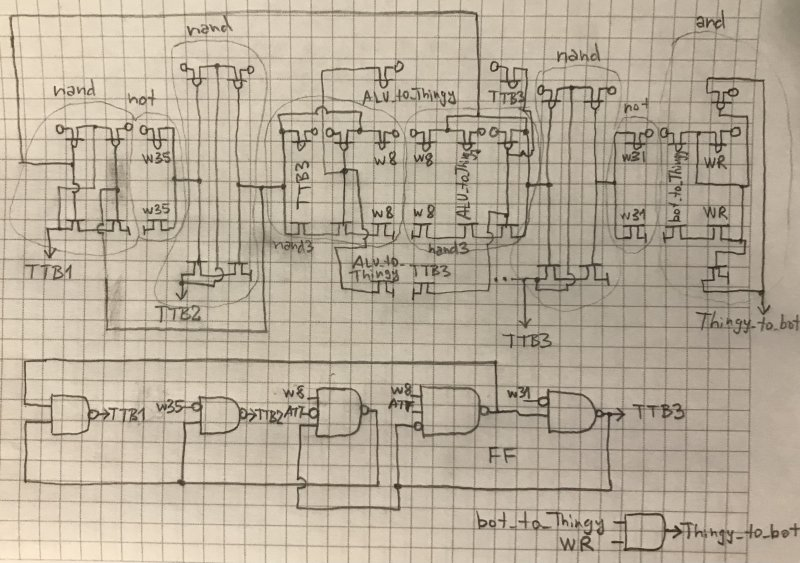
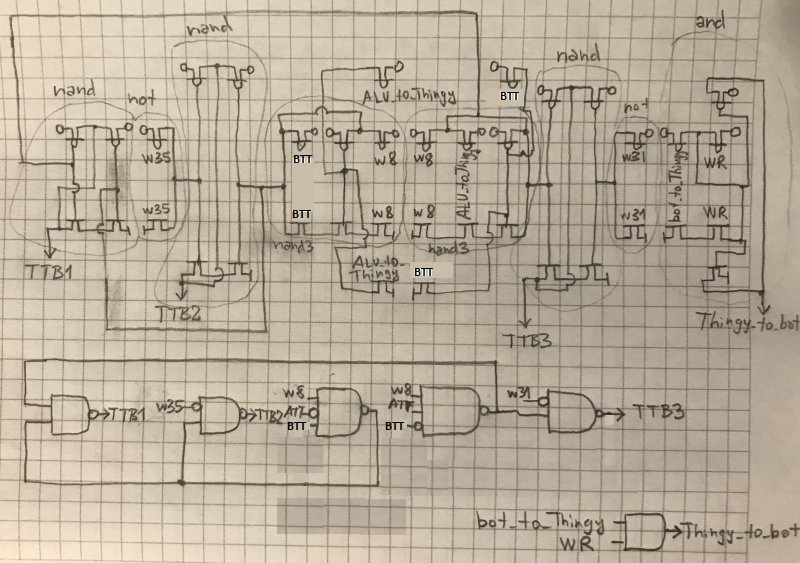
Thingy Fixed

diff --git a/alu.md b/alu.md
@@ -23,7 +23,7 @@ See: https://www.youtube.com/watch?v=WItAXzrfPrE&list=PLBDB2c4Mp7hBLRcEpE19yyHB-
 |CLK7|External| |
 |DV\[7:0\]|Bottom| |
 |AllZeros|NOR-8|1: The result (`Res`) is 0.|
-|TTB3|Thingy| |
+|BTT|Bottom| |
 |d42|Decoder1| |
 |d58|Decoder1| |
 |w (many)|Decoder2| |
@@ -47,7 +47,7 @@ See: https://www.youtube.com/watch?v=WItAXzrfPrE&list=PLBDB2c4Mp7hBLRcEpE19yyHB-
 |bc2|Bottom Left| |
 |bc3|Bottom Left| |
 |bc5|Bottom Left| |
-|ALU_to_bot|Bottom|TTB3 signal stored in the memory cell|
+|ALU_to_bot|Bottom|BTT signal stored in the memory cell|
 |ALU_to_Thingy|Thingy|CarryOut|
 |ALU_Out1|Sequencer| |
 
@@ -139,7 +139,7 @@ Large Comb 1 (_14 NAND trees_):
 |alu_9|CLK2|e6|{alu6}<br/>{w24,nIR3,IR4,IR5}<br/>{w10,IR3}<br/>{w10,nIR4}<br/>{w10,nIR5}<br/>{x22,bc5,nbc1,bc2}<br/>{x22,bq7,bq4,nbc2}<br/>{x22,bc1,nbc2}<br/>{x22,bq5,nbc2}|
 |alu_10|CLK2|e7|{alu7}<br/>{w24,IR3,IR4,IR5}<br/>{w10,nIR3}<br/>{w10,nIR4}<br/>{w10,nIR5}<br/>{x22,bc5,bc2}<br/>{x22,bc1,bc2}|
 |alu_11|CLK6|ALU_Out1|{w0,nIR3,IR4,bc1}<br/>{w0,IR3,IR4,nbc1}<br/>{w0,IR3,nIR4,nbc3}<br/>{w0,nIR3,nIR4,bc3}|
-|alu_12|CLK6|bc3|{f0,w12,nIR3,nIR4,nIR5}<br/>{f1,w12,IR3,nIR4,nIR5}<br/>{f2,w12,nIR3,IR4,nIR5}<br/>{f3,w12,IR3,IR4,nIR5}<br/>{f4,w12,nIR3,nIR4,IR5}<br/>{f5,w12,IR3,nIR4,IR5}<br/>{f6,w12,nIR3,IR4,IR5}<br/>{f7,w12,IR3,IR4,IR5}<br/>{d42,AllZeros}<br/>{w3,AllZeros}<br/>{w37,AllZeros}<br/>{x22,AllZeros}<br/>{TTB3,d58}<br/>{bc3,w19}<br/>{bc3,x21}<br/>{bc3,w15}<br/>{bc3,x26}|
+|alu_12|CLK6|bc3|{f0,w12,nIR3,nIR4,nIR5}<br/>{f1,w12,IR3,nIR4,nIR5}<br/>{f2,w12,nIR3,IR4,nIR5}<br/>{f3,w12,IR3,IR4,nIR5}<br/>{f4,w12,nIR3,nIR4,IR5}<br/>{f5,w12,IR3,nIR4,IR5}<br/>{f6,w12,nIR3,IR4,IR5}<br/>{f7,w12,IR3,IR4,IR5}<br/>{d42,AllZeros}<br/>{w3,AllZeros}<br/>{w37,AllZeros}<br/>{x22,AllZeros}<br/>{BTT,d58}<br/>{bc3,w19}<br/>{bc3,x21}<br/>{bc3,w15}<br/>{bc3,x26}|
 |alu_13|CLK2|ALU_to_top ("Carry In")|{w37,nIR0}<br/>{x27}<br/>{w9,bc1}<br/>{nbc1,x24}<br/>{nIR3,x24}<br/>{bc1,w19}<br/>{IR3,x23}|
 
 The result is an AND-to-NOR tree (using alu_0 as an example):
@@ -170,4 +170,4 @@ Regular memory cell with write enable (x28/x29). It also contains a Precharge FE
 
 ![ALU_to_bot_tran](/imgstore/modules/ALU_to_bot_tran.jpg)
 
-A regular memory cell, for storing the `TTB3` signal. The signal CLK4 acts as WriteEnable.
+A regular memory cell, for storing the `BTT` signal. The signal CLK4 acts as WriteEnable.

diff --git a/small_thingy.md b/small_thingy.md
@@ -13,14 +13,13 @@
 |w35|input|Decoder2| |
 |w6|input|Decoder2|WR|
 |ALU_to_Thingy|input|ALU| |
+|BTT|input|Bottom| |
 |TTB1|output|Bottom| |
 |TTB2|output|Bottom| |
-|TTB3|output|Bottom, ALU| |
+|TTB3|output|Bottom| |
 |bot_to_Thingy|input|Bottom|IE access detected (Address = 0xffff)|
 |Thingy_to_bot|output|Bottom|Load a value into the IE register from the DL bus.|
 
 ![thingy_tran](/imgstore/thingy_tran.jpg)
-
-Inside the circuit contains a FF, so far not yet clear purpose.
 
 ![Thingy](/HDL/Design/Thingy.png)
